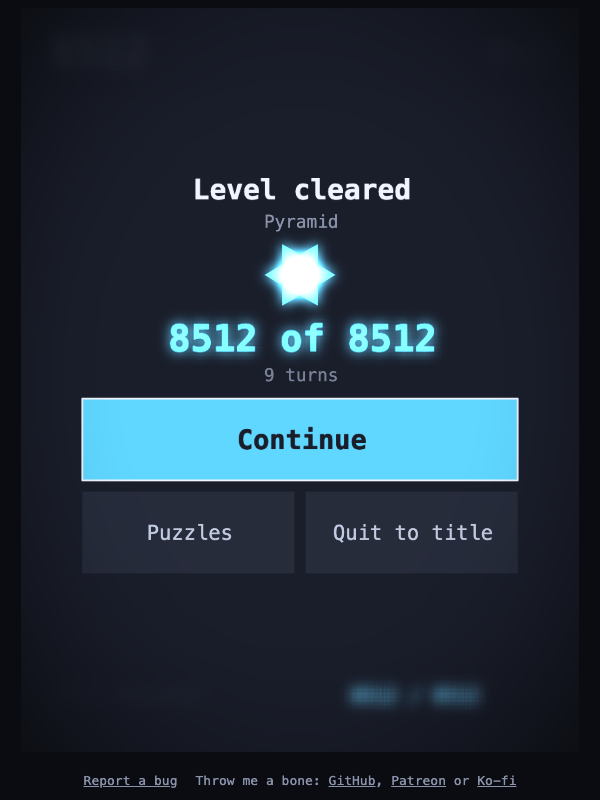
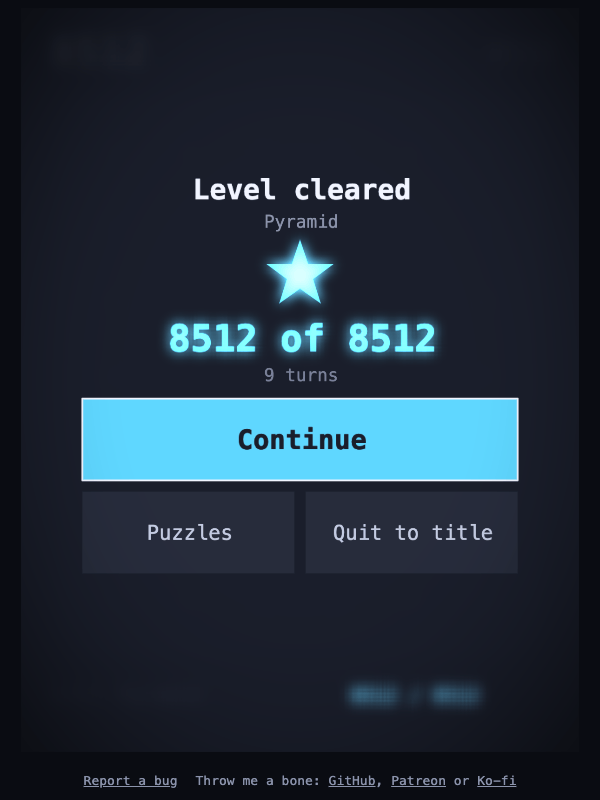
Draw a five-pointed star
Six points is a religious icon; a reward chart draws five. It was six
because two triangles turned against each other are solid and seamless,
which an outlined or pathed star is not - and five points cannot be made
that way.

So the shader's polygon grows one parameter instead. An edge running from
a corner on the circle to a valley between two of them is still one
straight line across the sector, only leaning; the polygon is the case
that leans by nothing, so the dot shapes are untouched. A star is one
filled distance field, still with no stroke and no seam.

Changed region(s): [[0.42, 0.2812, 0.57, 0.4062]]

diff --git a/src/shaders.js b/src/shaders.js
@@ -38,22 +38,28 @@ export const DISC_VS = `#version 300 es
   layout(location=2) in vec4 aShape;    // wobble amount, wobble axis, ring half-width, sheen
   layout(location=3) in vec4 aColor;
   layout(location=4) in vec4 aForm;     // polygon sides, its turn, how far toward it
-  out vec2 vUV; out vec4 vShape; out vec4 vColor; out vec3 vForm;
+  out vec2 vUV; out vec4 vShape; out vec4 vColor; out vec4 vForm;
   ${PROJECT}
   void main() {
-    vUV = aUV; vShape = aShape; vColor = aColor; vForm = aForm.xyz;
+    vUV = aUV; vShape = aShape; vColor = aColor; vForm = aForm;
     gl_Position = project(aPos);
   }`
 export const DISC_FS = `#version 300 es
   precision highp float;
-  in vec2 vUV; in vec4 vShape; in vec4 vColor; in vec3 vForm;
+  in vec2 vUV; in vec4 vShape; in vec4 vColor; in vec4 vForm;
   out vec4 frag;
-  // How far out the edge is at this angle, for a dot bent toward a regular polygon. The
-  // polygon is scaled so its corners sit on the circle and its sides bow inward, so the
-  // dot never grows - it is dented, which is what keeps a board of these reading as dots.
+  // How far out the edge is at this angle, for a dot bent toward a corner-on-the-circle
+  // shape: the corners sit on the circle and the edges between them bow inward, so the dot
+  // never grows - it is dented, which is what keeps a board of these reading as dots.
+  //
+  // One straight edge per sector, and the lean is how far round the sector that edge's
+  // nearest point sits. At zero the edge is square across the sector and the shape is a regular
+  // polygon, which is what every dot shape asks for. Leaning it back opens the sector into a
+  // deep valley and pulls the corners into points: a star, from the same two cosines. See
+  // #form in glrenderer.js for where a lean comes from.
   //
   // A colour whose shape is round asks for no sides and gets the circle back untouched.
-  float form(float angle, float sides, float turn, float amount) {
+  float form(float angle, float sides, float turn, float amount, float lean) {
     if (sides < 3.0 || amount <= 0.0) {
       return 1.0;
     }
@@ -61,15 +67,16 @@ export const DISC_FS = `#version 300 es
     // Half a sector, named for what it is rather than "half", which is a reserved word in
     // GLSL ES and will not compile.
     float sector = segment * 0.5;
-    // The angle to the nearest of the polygon's edges, folded into one sector.
-    float across = mod(angle - turn + sector, segment) - sector;
-    return mix(1.0, cos(sector) / cos(across), amount);
+    // The angle into the nearest sector, folded and then mirrored: a leaning edge is not
+    // symmetric about the sector, so which side of it this is has to stop mattering.
+    float across = abs(mod(angle - turn + sector, segment) - sector);
+    return mix(1.0, cos(sector - lean) / cos(across - lean), amount);
   }
   void main() {
     float radius = length(vUV);
     float angle = atan(vUV.y, vUV.x);
     float wobble = 1.0 + vShape.x * cos(2.0 * (angle - vShape.y));
-    wobble *= form(angle, vForm.x, vForm.y, vForm.z);
+    wobble *= form(angle, vForm.x, vForm.y, vForm.z, vForm.w);
     // Signed distance to the deformed edge, in quad units, then in pixels.
     float d = radius / max(wobble, 0.2) - 1.0;
     float aa = max(fwidth(d), 1e-5);

diff --git a/src/glrenderer.js b/src/glrenderer.js
@@ -812,14 +812,37 @@ export class WebGLRenderer extends Renderer {
     )
   }
 
-  // A dot's shape, as the shader wants it: how many sides, how far round they are turned,
-  // and how far to bend the circle toward them.
+  // A shape, as the shader wants it: how many corners, how far round they are turned, how far
+  // to bend the circle toward them, and how far the edge between two corners leans.
   //
-  // The bend is divided by how much difference that many sides makes at all, so every shape
-  // dents its edges in by the same fraction of the radius: a triangle moves its edges far
-  // further than a hexagon does for the same mix, and a board where the triangles shout and
-  // the hexagons whisper is a board where only some of the shapes do their job.
+  // Two shapes come out of this. `sides` is a regular polygon, which is what a dot wears: the
+  // bend is divided by how much difference that many sides makes at all, so every shape dents
+  // its edges in by the same fraction of the radius. A triangle moves its edges far further
+  // than a hexagon does for the same mix, and a board where the triangles shout and the
+  // hexagons whisper is a board where only some of the shapes do their job.
+  //
+  // `points` is a star, and it is the same shape with its edges leaned back. An edge running
+  // from a corner on the circle down to a valley at `inner` is still one straight line across
+  // the sector, only no longer square to it; `lean` is where its nearest point has moved to,
+  // and the shader draws it from that alone. A polygon is the star whose valleys are as deep
+  // as a polygon's edges, so it leans by nothing - which is why the dots are untouched by
+  // this and why there is one function rather than two.
+  //
+  // Filled either way. A star's points are far narrower than any stroke that would fill them,
+  // so an outlined one leaves a star-shaped hole in the middle and rounds the points into
+  // blobs; and one drawn as a closed path has a seam where it meets itself, which reads as a
+  // doubled point. A distance field has neither.
   #form(shape) {
+    if (shape && shape.points >= 3) {
+      const half = Math.PI / shape.points
+      // How deep the valleys go, against the corners at one. The default is the classic
+      // five-pointed star: the valleys where the arms of a pentagram cross.
+      const inner = shape.inner ?? Math.cos(2 * half) / Math.cos(half)
+      // `turn` names where a point goes, which is the only thing anybody asks of a star. The
+      // shader measures from the valley between two of them, half a sector back.
+      const lean = Math.atan2(inner - Math.cos(half), Math.sin(half))
+      return [shape.points, (shape.turn || 0) - half, 1, lean]
+    }
     if (!shape || !(shape.sides >= 3)) {
       return [0, 0, 0, 0]
     }

diff --git a/src/view.js b/src/view.js
@@ -70,6 +70,13 @@ const RANK_APART = 0.16
 const RANK_FLIGHT = 0.3
 const RANK_MAX = 5
 
+// Where a star's points sit and how much of one an unearned one keeps. Up, because a star
+// with a point at the top is the one every reward chart draws; the field is drawn with y
+// downward, so up is a quarter turn back. The hollow one is thinner than a polygon's would
+// be, since a five-pointed star has far less body to lose before its arms close up.
+const STAR_UP = -Math.PI / 2
+const STAR_HOLLOW = 0.7
+
 // How far a banner keeps off the edges of the field it is written across.
 const BANNER_MARGIN = 22
 // The gutter a settings row's name sits in, to the left of its values.
@@ -1178,31 +1185,22 @@ export class GameView {
     })
   }
 
-  // A star, as two triangles turned against each other.
+  // A star: five points, one distance field, drawn filled. See #form in glrenderer.js for
+  // the shape and for why it is not stroked or pathed.
   //
-  // Filled geometry, not a stroked outline: a star's points are far narrower than any stroke
-  // that would fill them, so stroking one leaves a star-shaped hole in the middle and rounds
-  // the points into blobs, and the seam where the closed path meets itself reads as a doubled
-  // point at the top. Two triangles have no seam and are solid by construction.
-  //
-  // An unearned one is the same shape with a smaller pair punched out of it in the colour
+  // An unearned one is the same shape with a smaller one punched out of it in the colour
   // behind, so it reads as the outline of the star that is there to be won.
   #drawStar(x, y, r, colour, filled, behind, { turn = 0, glow = 0.45 } = {}) {
     const renderer = this.renderer
-    // A third of a turn apart, and `strength` at half is the point where the shape reaches the
-    // polygon exactly: see #form in glrenderer.js.
-    const points = (radius, color, light) => {
-      for (const at of [0, Math.PI / 3]) {
-        renderer.disc(x, y, radius, {
-          color,
-          glow: light,
-          shape: { sides: 3, turn: turn + at, strength: 0.5 },
-        })
-      }
-    }
+    const points = (radius, color, light) =>
+      renderer.disc(x, y, radius, {
+        color,
+        glow: light,
+        shape: { points: 5, turn: STAR_UP + turn },
+      })
     points(r, colour, filled ? glow : 0)
     if (!filled) {
-      points(r * 0.62, behind, 0)
+      points(r * STAR_HOLLOW, behind, 0)
     }
   }
 

diff --git a/test/view.test.js b/test/view.test.js
@@ -396,9 +396,9 @@ test("a round of turns is marked out of five, and the stars arrive one by one", 
   game.turns = 30
   game.player.score = 30 * 1296 // a run of sixes, which is four of the five
   assert.equal(game.rank, 4)
-  // A star is two triangles, and a filled one is the pair that carries the glow.
+  // A star is one shaped disc, and a filled one is the one that carries the glow.
   const filled = (calls) =>
-    calls.filter((call) => call.kind === "disc" && call.opts.shape && call.opts.glow > 0).length / 2
+    calls.filter((call) => call.kind === "disc" && call.opts.shape && call.opts.glow > 0).length
   game.page = "over"
   const landed = [0, 0.4, 1.2, 3].map((age) => {
     game.finishedAt = game.time - age
